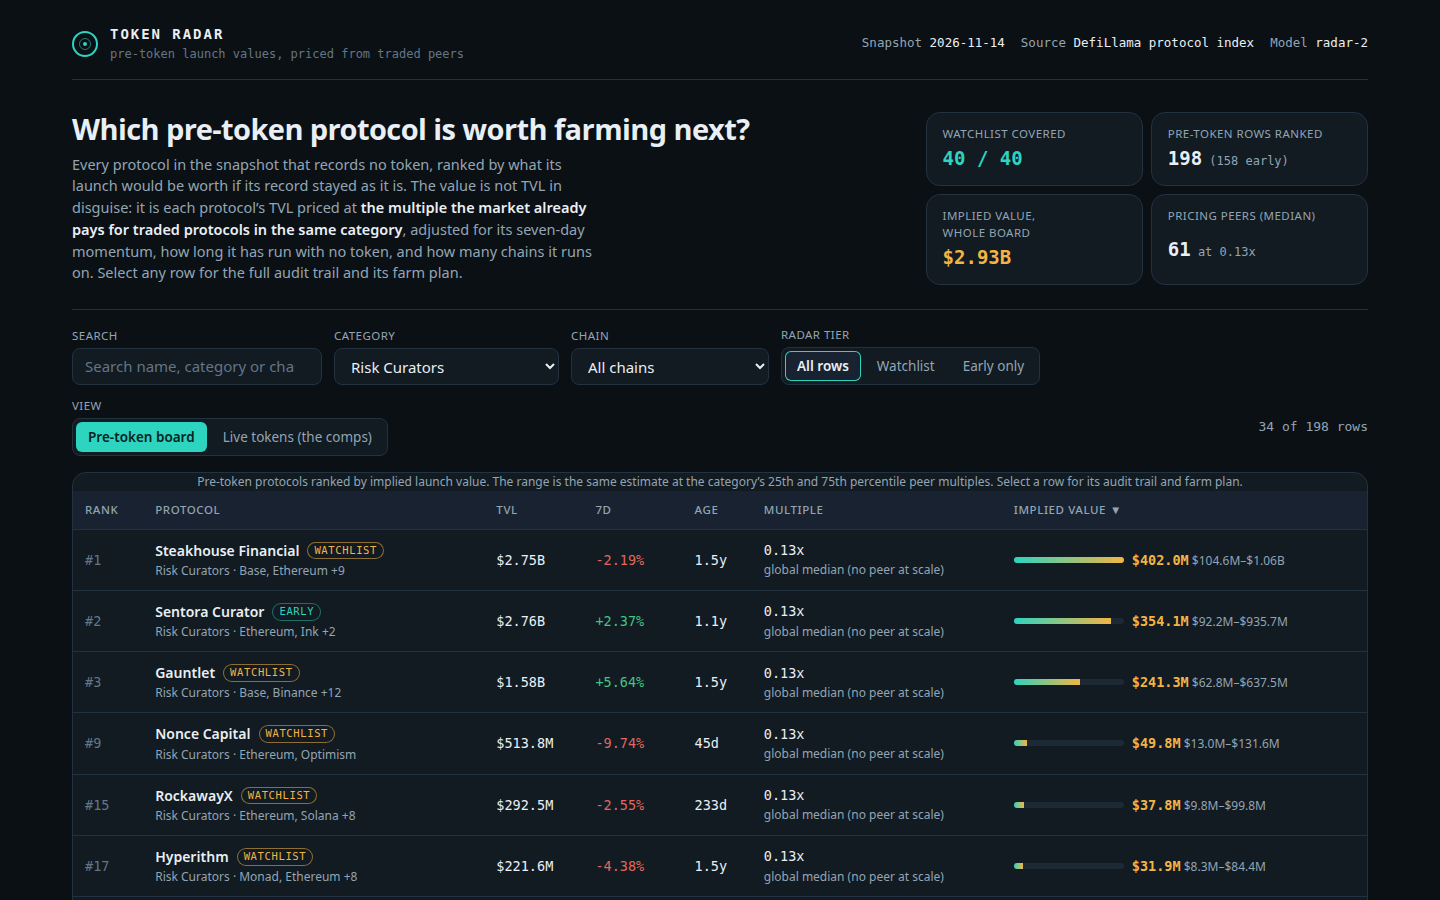
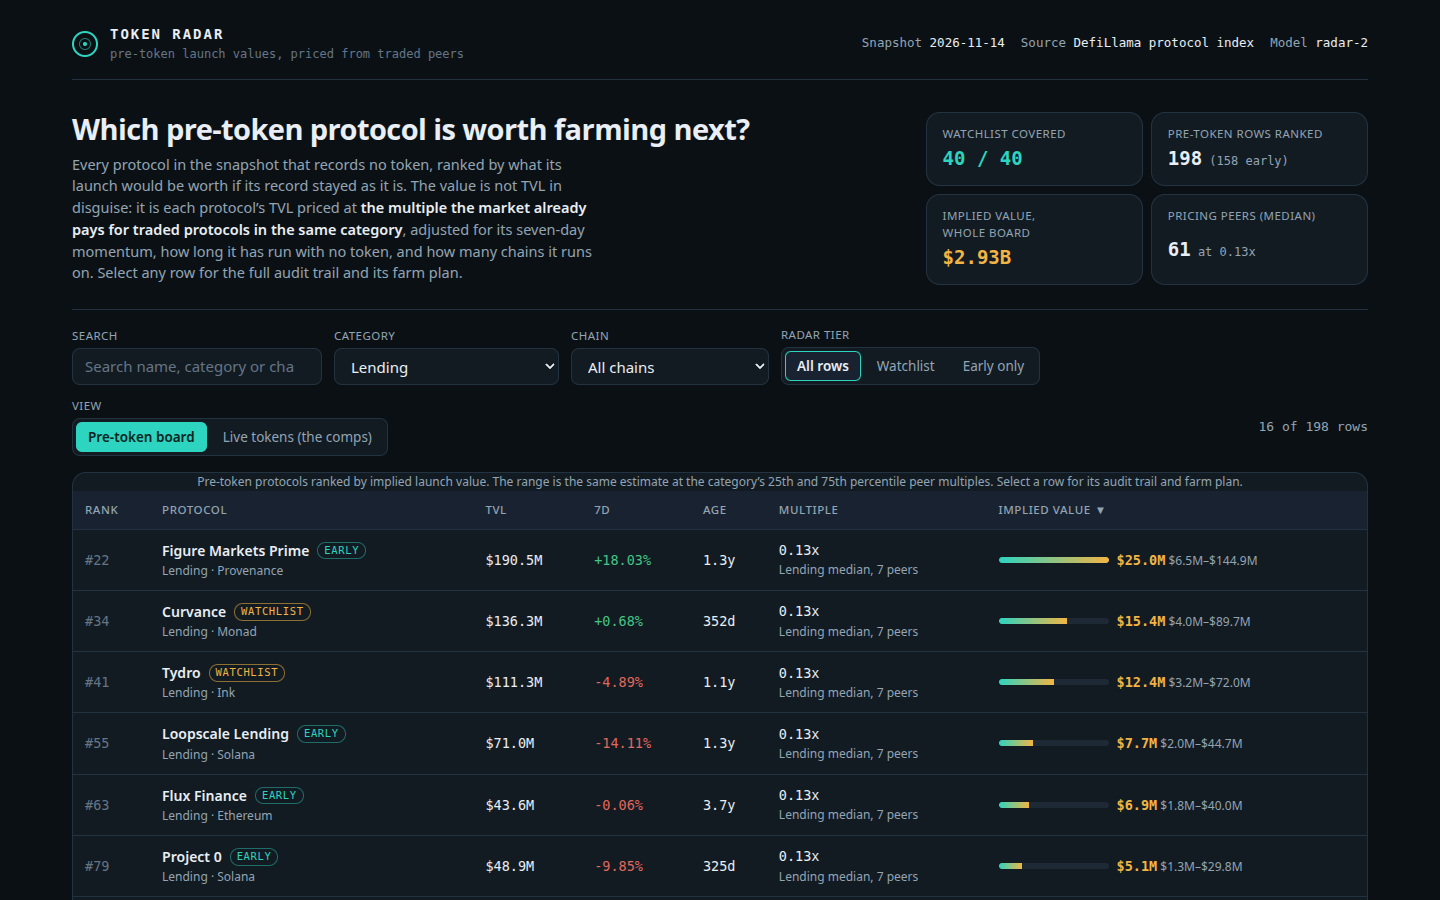
Audit fixes: growth_raw_pct beside the clamped figure (audit trail prints the record exactly), farm plans close with each row's own stake, Lending-filter screenshot

diff --git a/lib/model.ts b/lib/model.ts
@@ -18,6 +18,9 @@
 //
 // Every row carries the multiple it used, the peer count behind it, the category and global medians
 // and each multiplier, so any reader (or the dashboard, which recomputes it) can audit the number.
+// A row also carries the raw seven-day change the snapshot records, beside the clamped figure the
+// momentum factor actually used: four records in this snapshot run past the clamp, and the audit
+// trail prints both rather than letting the clamped figure pose as the record.
 // No protocol name is ever special-cased: the same function scores every row.
 //
 // The board covers every slug in the snapshot's watchlist and adds every other rankable pre-token
@@ -133,6 +136,9 @@ export interface RowModel {
   global_median: number;
   multiple_low: number;
   multiple_high: number;
+  /** The seven-day change exactly as the snapshot records it (null when unreported). */
+  growth_raw_pct: number | null;
+  /** The change the momentum factor used: growth_raw_pct clamped to the model's band. */
   growth_pct: number;
   momentum_multiplier: number;
   age_multiplier: number;
@@ -327,10 +333,10 @@ export function impliedValue(
   asOf: string,
   stats: CategoryStats,
   model: ModelConstants = MODEL,
-): { implied: number; low: number; high: number; growthPct: number; momentumMult: number; maturityMult: number; breadthMult: number; age: number | null } {
+): { implied: number; low: number; high: number; growthRawPct: number | null; growthPct: number; momentumMult: number; maturityMult: number; breadthMult: number; age: number | null } {
   const age = ageDays(asOf, protocol.listed_at);
-  const rawGrowth = typeof protocol.change_7d === 'number' && Number.isFinite(protocol.change_7d) ? protocol.change_7d : 0;
-  const growthPct = Math.min(model.momentum_cap, Math.max(model.momentum_floor, rawGrowth));
+  const growthRawPct = typeof protocol.change_7d === 'number' && Number.isFinite(protocol.change_7d) ? protocol.change_7d : null;
+  const growthPct = Math.min(model.momentum_cap, Math.max(model.momentum_floor, growthRawPct ?? 0));
   // Every factor is rounded to 4 places before it is used, so the factors a row prints are exactly
   // the factors that priced it: a reader (or the dashboard) multiplying the printed inputs gets the
   // printed value back, to the dollar.
@@ -344,6 +350,7 @@ export function impliedValue(
     implied,
     low: Math.min(implied, at(stats.effective_low)),
     high: Math.max(implied, at(stats.effective_high)),
+    growthRawPct,
     growthPct,
     momentumMult,
     maturityMult,
@@ -439,13 +446,14 @@ export function buildBoard(snapshot: Snapshot, model: ModelConstants = MODEL): B
       global_median: round4(global.median),
       multiple_low: round4(s.stats.effective_low),
       multiple_high: round4(s.stats.effective_high),
+      growth_raw_pct: s.v.growthRawPct === null ? null : round4(s.v.growthRawPct),
       growth_pct: s.v.growthPct,
       momentum_multiplier: round4(s.v.momentumMult),
       age_multiplier: round4(s.v.maturityMult),
       chain_multiplier: round4(s.v.breadthMult),
       chain_count: s.p.chains.length,
     },
-    farm_steps: farmSteps(s.p, s.v.age),
+    farm_steps: farmSteps(s.p, s.v.age, { rank: i + 1, of: scored.length, implied: s.v.implied }),
   }));
 }
 
@@ -699,10 +707,12 @@ export function stepText(step: { text: string; cost: string; time: string }): st
 /**
  * A protocol's farm plan: seven steps, each an action with a cost and a time, built from the
  * protocol's own record — its category's way of being used, its first two chains by name, a capital
- * sized to its TVL, a hold sized to its age, and a note that follows its seven-day momentum. No
- * name is special-cased and no two protocols of different categories share a plan.
+ * sized to its TVL, a hold sized to its age, and a note that follows its seven-day momentum. The
+ * last step closes with the stake: the rank and implied launch value the board itself gives the
+ * protocol, so the plan names the prize it farms toward. No name is special-cased and no two
+ * protocols of different categories share a plan.
  */
-export function farmSteps(p: SnapshotProtocol, age: number | null): string[] {
+export function farmSteps(p: SnapshotProtocol, age: number | null, stake?: { rank: number; of: number; implied: number }): string[] {
   const profile = profileFor(p.category);
   const chain = chainOf(p);
   const capital = capitalFor(p);
@@ -758,8 +768,12 @@ export function farmSteps(p: SnapshotProtocol, age: number | null): string[] {
     cost: `the $${capital} stays in the position`,
     time: `${hold} days`,
   });
+  const stakeText =
+    stake === undefined
+      ? ''
+      : ` The stake: this board ranks ${p.name} #${stake.rank} of ${stake.of} at an implied launch value of $${stake.implied.toLocaleString('en-US')} — the prize this plan farms toward, and it moves if the record does.`;
   steps.push({
-    text: `Open ${p.name}'s own app and look for its points, rewards or governance page; if it runs one, link this same wallet there and claim only from a link the app itself publishes — never pay a third party to claim. Write the wallet, the dates and every transaction in a farm log as you go.`,
+    text: `Open ${p.name}'s own app and look for its points, rewards or governance page; if it runs one, link this same wallet there and claim only from a link the app itself publishes — never pay a third party to claim. Write the wallet, the dates and every transaction in a farm log as you go.${stakeText}`,
     cost: 'no fee to check, and never pay to claim',
     time: '10 minutes, then 5 minutes a week for the log',
   });

diff --git a/dashboard/app.js b/dashboard/app.js
@@ -14,6 +14,9 @@
 //     maturity = 0.75 + 0.5 x min(age_days, 1460)/1460      (an unlisted age counts as 365 days)
 //     breadth  = 1 + 0.03 x min(chains - 1, 7)
 //   low/high  = the same product with the category's shrunk 25th / 75th percentile multiple.
+// Each row also carries the raw seven-day change the snapshot records (growth_raw_pct) beside the
+// clamped figure its momentum factor used; the detail view prints both, so the record is never
+// restated as the clamp.
 // deriveMultiples() below re-derives every category's median from the peer rows in data.js and the
 // method panel prints the comparison; impliedOf() recomputes a row's value from its stated inputs
 // and the detail drawer prints whether it matches board.json. The page and the board are the same
@@ -443,10 +446,14 @@
     var multNote = m.category_peers > 0
       ? (row.category || 'Uncategorised') + ': ' + m.category_peers + ' traded peer' + (m.category_peers === 1 ? '' : 's') + ', median ' + fmtMult(m.category_median) + ', shrunk toward the global ' + fmtMult(m.global_median)
       : 'no traded peer at scale in ' + (row.category || 'this category') + ': the global median of ' + DATA.global.peers + ' peers applies whole';
+    var rawGrowth = (m.growth_raw_pct === null || m.growth_raw_pct === undefined) ? m.growth_pct : m.growth_raw_pct;
+    var growthNote = rawGrowth !== m.growth_pct
+      ? '7d TVL change ' + fmtPct(rawGrowth) + ' on record; the model clamps it to ' + fmtPct(m.growth_pct)
+      : '7d TVL change ' + fmtPct(m.growth_pct) + ' (clamped to [' + M.momentum_floor + ', +' + M.momentum_cap + '])';
     var waterfall = el('div', { class: 'waterfall' },
       wrow('TVL (snapshot)', row.listed_at ? 'listed ' + row.listed_at + ' \u00b7 age ' + fmtAge(row.age_days) : 'listing date not recorded', fmtUsd(row.tvl_usd)),
       wrow('x Category multiple', multNote, fmtMult(m.category_multiple)),
-      wrow('x Momentum', '7d TVL change ' + fmtPct(m.growth_pct) + ' (clamped to [' + M.momentum_floor + ', +' + M.momentum_cap + '])', m.momentum_multiplier.toFixed(2) + 'x'),
+      wrow('x Momentum', growthNote, m.momentum_multiplier.toFixed(2) + 'x'),
       wrow('x Maturity', 'has run ' + fmtAge(row.age_days) + ' with no token on record', m.age_multiplier.toFixed(2) + 'x'),
       wrow('x Breadth', m.chain_count + ' chain' + (m.chain_count === 1 ? '' : 's') + ' on record', m.chain_multiplier.toFixed(2) + 'x'),
       el('div', { class: 'wrow total' }, el('span', { class: 'wlab', text: 'Implied launch value' }), el('span', { class: 'wval', text: fmtUsd(row.implied_value_usd) }))
